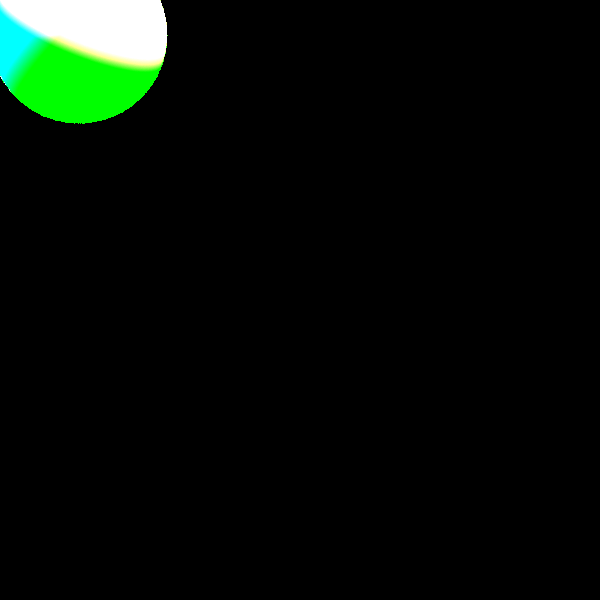
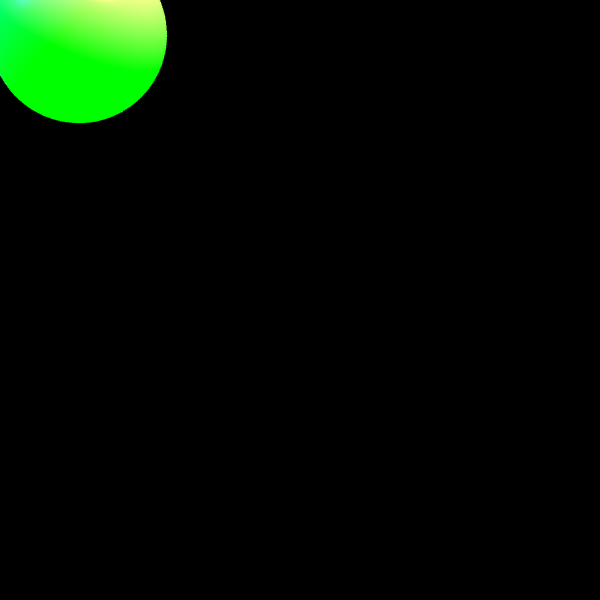
Stage 8: fixing jagged edges (2nd improvement)

Changed region(s): [[0.0, 0.0, 0.3, 0.15]]

diff --git a/unittests/renderer/ReflectionRefractionTests.java b/unittests/renderer/ReflectionRefractionTests.java
@@ -44,7 +44,6 @@ public class ReflectionRefractionTests {
         Camera camera = new Camera(new Point(0, 0, 1000), new Vector(0, 0, -1), new Vector(0, 1, 0)) //
                 .setVPSize(150, 150).setVPDistance(1000);
 
-
         camera.setImageWriter(new ImageWriter("refractionTwoSpheres", 500, 500)) //
                 .setRayTracer(new RayTracerBasic(scene2)) //
                 .renderImage() //
@@ -295,20 +294,131 @@ public class ReflectionRefractionTests {
      * our test
      */
     @Test
-    public void ourImageWithoutJaggedEdges() {
+    public void ourJaggedEdgesOn() {
+        Camera camera = new Camera(new Point(80, 0, 2), new Vector(-1, 0, 0), new Vector(0, 0, 1))
+                .setVPSize(200, 200).setVPDistance(1000);
+
+        camera.setJaggedEdgesButton(true, 9);
+
+
+        Geometries geometries = new Geometries(//close to camera bigger
+                new Sphere(new Point(40, 0, 2.5), 3)
+                        .setEmission(Color.GREEN)
+                        .setMaterial(new Material().setKd(0.5).setKs(0.5).setShininess(30)));
+        LinkedList<LightSource> lights = new LinkedList<>();
+
+//        lights.add(new Spotlight(new Color(700, 400, 400),
+//                new Point(40, 40, 115),
+//                new Vector(-1, -1, -4)));
+//        lights.add(new PointLight(Color.BLUE, new Point(100, -100, 100)));
+        lights.add(new DirectionalLight(Color.MAGENTA,new Vector(-1,-1,0)));
+
+        Scene scene2 = new Scene.SceneBuilder("Test scene").setGeometries(geometries)
+                .setLights(lights).build();
+
+        ImageWriter imageWriter = new ImageWriter("jagged edges on - 9", 600, 600);
+        camera.setImageWriter(imageWriter)
+                .setRayTracer(new RayTracerBasic(scene2))
+                .renderImage()
+                .writeToImage();
+    }
+    @Test
+    public void jaggedEdgesOff() {
+        Camera camera = new Camera(new Point(80, 0, 2), new Vector(-1, 0, 0), new Vector(0, 0, 1))
+                .setVPSize(200, 200).setVPDistance(1000);
+
+        camera.setJaggedEdgesButton(false, 9);
+
+
+        Geometries geometries = new Geometries(//close to camera bigger
+                new Sphere(new Point(40, 0, 2.5), 3)
+                        .setEmission(Color.GREEN)
+                        .setMaterial(new Material().setKd(0.5).setKs(0.5).setShininess(30)));
+        LinkedList<LightSource> lights = new LinkedList<>();
+
+//        lights.add(new Spotlight(new Color(700, 400, 400),
+//                new Point(40, 40, 115),
+//                new Vector(-1, -1, -4)));
+//        lights.add(new PointLight(Color.BLUE, new Point(100, -100, 100)));
+        lights.add(new DirectionalLight(Color.MAGENTA,new Vector(-1,-1,0)));
+
+        Scene scene2 = new Scene.SceneBuilder("Test scene").setGeometries(geometries)
+                .setLights(lights).build();
+
+        ImageWriter imageWriter = new ImageWriter("jagged edges off 9", 600, 600);
+        camera.setImageWriter(imageWriter)
+                .setRayTracer(new RayTracerBasic(scene2))
+                .renderImage()
+                .writeToImage();
+    }
+
+
+    /**
+     * our test
+     */
+    @Test
+    public void ourImageWithSmoothEdges() {
         Camera camera = new Camera(new Point(80, 0, 2), new Vector(-1, 0, 0), new Vector(0, 0, 1))
                 .setVPSize(200, 200).setVPDistance(1000);
 
         camera.setJaggedEdgesButton(true, 3);
 
+        camera.setJaggedEdgesButton(true);
+        Point p0 = new Point(0, -3, 5);
+        Point p1 = new Point(0, 3, 5);
+        Point p2 = new Point(0, 3, 0);
+        Point p3 = new Point(0, -3, 0);
+        Point p4 = new Point(9, 6, 5);
+        Point p5 = new Point(9, 6, 0);
+        Point p6 = new Point(9, -6, 0);
+        Point p7 = new Point(9, -6, 5);
 
-        Geometries geometries = new Geometries(//close to camera bigger
-                new Sphere(new Point(63, -1.25, 3.5), 0.5)
+        Point p8 = new Point(1, 0, 0);
+        Point p9 = new Point(2, 1, 0);
+        Point p10 = new Point(3, 0, 0);
+        Point p11 = new Point(2, -1, 0);
+        Point p12 = new Point(1, 0, 2);
+        Point p13 = new Point(2, 1, 2);
+        Point p14 = new Point(3, 0, 2);
+        Point p15 = new Point(2, -1, 2);
+
+        Point p16 = new Point(0,-10,0.5);
+        Point p17 = new Point(0,10,0.5);
+        Point p18 = new Point(100, -10, 0.5);
+        Point p19 = new Point(100, 10, 0.5);
+
+        Geometries geometries = new Geometries(
+                //window
+                new Quadrangle(p0, p1, p2, p3).setTransparency(new Double3(0.7)).setColor(Color.LIGHT_BLUE),
+                //mirrors
+                new Quadrangle(p1, p2, p5, p4).setReflectivity(new Double3(0.5)).setShininess(1000).setColor(Color.GOLD),
+                new Quadrangle(p7, p0, p3, p6).setReflectivity(new Double3(0.5)).setShininess(1000).setColor(Color.GOLD),
+                //sun
+                new Sphere(new Point(-100, 0, 2), 2d)
+                        .setEmission(Color.RED)
+                        .setMaterial(new Material().setKd(0.5).setKs(0.5).setShininess(30)),
+                //close to window
+                new Sphere(new Point(1, -0.75, 2), 0.5)
+                        .setEmission(Color.RED)
+                        .setMaterial(new Material().setKd(0.5).setKs(0.5).setShininess(30)),
+                //close to camera bigger
+                new Sphere(new Point(63, 0.75, 1.1), 0.5)
                         .setEmission(Color.GREEN)
                         .setMaterial(new Material().setKd(0.5).setKs(0.5).setShininess(30)),
-                new Sphere(new Point(63, -1.25, 3.5), 0.2)
+                new Sphere(new Point(63, 0.75, 1.7), 0.2)
                         .setEmission(Color.GREEN)
-                        .setMaterial(new Material().setKd(0.5).setKs(0.5).setShininess(30))
+                        .setMaterial(new Material().setKd(0.5).setKs(0.5).setShininess(30)),
+                //close to camera smaller
+                new Sphere(new Point(59, 0, 1.1), 0.4)
+                        .setEmission(Color.BLUE)
+                        .setMaterial(new Material().setKd(0.5).setKs(0.5).setShininess(30)),
+                new Sphere(new Point(59, 0, 1.6), 0.15)
+                        .setEmission(Color.BLUE)
+                        .setMaterial(new Material().setKd(0.5).setKs(0.5).setShininess(30)),
+                //floor
+               // new Quadrangle(p16, p17, p19, p18).setColor(Color.YELLOW),
+                new Triangle(p16,p17,p19).setEmission(Color.DARK_GRAY),
+                new Triangle(p19,p18,p16).setEmission(Color.YELLOW)
         );
         LinkedList<LightSource> lights = new LinkedList<>();
 
@@ -318,13 +428,95 @@ public class ReflectionRefractionTests {
         lights.add(new PointLight(Color.BLUE, new Point(100, -100, 100)));
         lights.add(new DirectionalLight(Color.MAGENTA,new Vector(-1,0,0)));
 
+
         Scene scene2 = new Scene.SceneBuilder("Test scene").setGeometries(geometries)
                 .setLights(lights).build();
 
-        ImageWriter imageWriter = new ImageWriter("our test jagged edges - 3", 600, 600);
+        ImageWriter imageWriter = new ImageWriter("our test shapes smooth edges", 600, 600);
+        camera.setImageWriter(imageWriter)
+                .setRayTracer(new RayTracerBasic(scene2))
+                .renderImage()
+                .writeToImage();
+    }
+
+    @Test
+    public void complexImageWithTenShapes() {
+        Camera camera = new Camera(new Point(55, 5, 20), new Vector(-7, -0.5, -2), new Vector(-1, 0, 1))
+                .setVPSize(300, 300).setVPDistance(1000);
+
+        camera.setJaggedEdgesButton(true, 3);
+
+
+        Point p0 = new Point(0, -3, 5);
+        Point p1 = new Point(0, 3, 5);
+        Point p2 = new Point(0, 3, 0);
+        Point p3 = new Point(0, -3, 0);
+        Point p4 = new Point(9, 6, 5);
+        Point p5 = new Point(9, 6, 0);
+        Point p6 = new Point(9, -6, 0);
+        Point p7 = new Point(9, -6, 5);
+
+        Point p8 = new Point(1, 0, 0);
+        Point p9 = new Point(2, 1, 0);
+        Point p10 = new Point(3, 0, 0);
+        Point p11 = new Point(2, -1, 0);
+        Point p12 = new Point(1, 0, 2);
+        Point p13 = new Point(2, 1, 2);
+        Point p14 = new Point(3, 0, 2);
+        Point p15 = new Point(2, -1, 2);
+
+        Point p16 = new Point(0,-10,0.5);
+        Point p17 = new Point(0,10,0.5);
+        Point p18 = new Point(100, -10, 0.5);
+        Point p19 = new Point(100, 10, 0.5);
+
+        Geometries geometries = new Geometries(
+                //window
+                new Quadrangle(p0, p1, p2, p3).setTransparency(new Double3(0.7)).setColor(Color.LIGHT_BLUE),
+                //mirrors
+                new Quadrangle(p1, p2, p5, p4).setReflectivity(new Double3(0.5)).setShininess(1000).setColor(Color.GOLD),
+                new Quadrangle(p7, p0, p3, p6).setReflectivity(new Double3(0.5)).setShininess(1000).setColor(Color.GOLD),
+
+                //close to camera smaller- body
+                new Sphere(new Point(2, 0, 3), 2)
+                        .setEmission(Color.BLUE)
+                        .setMaterial(new Material().setKd(0.5).setKs(0.5).setShininess(30).setKt(new Double3(0.7))),
+                new Sphere(new Point(2, 0, 3), 1)
+                        .setEmission(Color.BLUE)
+                        .setMaterial(new Material().setKd(0.2).setKs(0.1).setShininess(30)),
+
+                //floor
+                //new Quadrangle(p16, p17, p19, p18).setColor(Color.YELLOW)
+                new Triangle(p16,p17,p19).setEmission(Color.DARK_GRAY),
+                new Triangle(p19,p18,p16).setEmission(Color.DARK_GRAY)
+
+                //cube
+                // new Quadrangle(p8, p9, p10, p11),
+                //new Quadrangle(p12, p13, p14, p15),
+                //new Quadrangle(p13, p9, p10, p14),
+                //new Quadrangle(p14, p10, p11, p15),
+                //new Quadrangle(p15, p12, p8, p11),
+                //new Quadrangle(p12, p13, p9, p8)
+        );
+        LinkedList<LightSource> lights = new LinkedList<>();
+
+        lights.add(new Spotlight(Color.MAGENTA,
+                new Point(40, 40, 200),
+                new Vector(-1, -1, -4)).setKl(2E-5).setKq(2E-5));
+        lights.add(new PointLight(Color.YELLOW, new Point(100, -100, 100)));
+        //????????????move it or change color
+        lights.add(new DirectionalLight(Color.GOLD,new Vector(-2, -2, -5)));
+
+        Scene scene2 = new Scene.SceneBuilder("Test scene").setGeometries(geometries)
+                .setLights(lights)
+                .setAmbientLight(new AmbientLight(Color.BROWN, new Double3(0.15)))
+                .setBackground(Color.BLACK).build();
+
+        ImageWriter imageWriter = new ImageWriter("our test shapes chaya", 600, 600);
         camera.setImageWriter(imageWriter)
                 .setRayTracer(new RayTracerBasic(scene2))
                 .renderImage()
                 .writeToImage();
     }
 }
+

diff --git a/src/renderer/Camera.java b/src/renderer/Camera.java
@@ -275,7 +275,7 @@ public class Camera {
             //for each mini pixel
             for (int row = 1; row <= NUMBER_OF_MINIPIXELS; row++) {
                 //lowers the point for each row of minipixels
-                Point startPoint = outerTopLeftCorner.add(_Vup.scale(-1 * row * heightOfMiniPixel));
+                Point startPoint =  outerTopLeftCorner.add(_Vup.scale( -1*row * heightOfMiniPixel));
                 for (int column = 1; column <= NUMBER_OF_MINIPIXELS; column++) {
                     //moved the point to the right for each minipixel
 
@@ -285,8 +285,9 @@ public class Camera {
                     //creating ray from camera through random point in minipixel
 
                     Point movedPoint = movePointRandom(currentPoint, _Vup, _Vright, max(widthOfMiniPixel, heightOfMiniPixel));
-                    Vector rayDirectionFromMiniPixel = _centerCam.subtract(movedPoint);
-                    Ray jaggedEdgesRay = new Ray(movedPoint, rayDirectionFromMiniPixel);
+                    //Point movedPoint=currentPoint;
+                    Vector rayDirectionFromMiniPixel =_centerCam.subtract(movedPoint).normalize();
+                    Ray jaggedEdgesRay = new Ray(_centerCam, rayDirectionFromMiniPixel.scale(-1));
 
                     //tracing ray for color
                     Color thisPointColor = _rayTracerBase.traceRay(jaggedEdgesRay);
@@ -295,14 +296,15 @@ public class Camera {
                     colorX += thisPointColor.getColor().getRed();
                     colorY += thisPointColor.getColor().getGreen();
                     colorZ += thisPointColor.getColor().getBlue();
+                    //out.print(_centerCam.subtract(movedPoint).normalize());
                 }
             }
 
             //calculating the average - dividing by the number of mini pixels squared because of the double loop
-            double averageX = colorX / NUMBER_OF_MINIPIXELS * NUMBER_OF_MINIPIXELS;
 
-            double averageY = colorY / NUMBER_OF_MINIPIXELS * NUMBER_OF_MINIPIXELS;
-            double averageZ = colorZ / NUMBER_OF_MINIPIXELS * NUMBER_OF_MINIPIXELS;
+            double averageX = colorX / (NUMBER_OF_MINIPIXELS * NUMBER_OF_MINIPIXELS);
+            double averageY = colorY / (NUMBER_OF_MINIPIXELS * NUMBER_OF_MINIPIXELS);
+            double averageZ = colorZ / (NUMBER_OF_MINIPIXELS * NUMBER_OF_MINIPIXELS);
 
             Color thisPixelColor = new Color(averageX, averageY, averageZ);
             return thisPixelColor;

diff --git a/src/renderer/RayTracerBasic.java b/src/renderer/RayTracerBasic.java
@@ -9,7 +9,6 @@ import scene.Scene;
 import java.util.LinkedList;
 import java.util.List;
 
-import static java.lang.System.out;
 import static primitives.Util.alignZero;
 
 
@@ -84,7 +83,7 @@ public class RayTracerBasic extends RayTracerBase {
      * @param ray ray from the camera
      * @return the color of the point
      */
-    private Color calcLocalEffectsSimple(GeoPoint intersection, Ray ray, double k) {
+    private Color calcLocalEffects(GeoPoint intersection, Ray ray, double k) {
         Color color = intersection._geoPointGeometry.getEmission();//.scale(1 - intersection._geoPointGeometry.getMaterial().kT.getD1());
         Vector v = ray.getDir();
         Vector n = intersection._geoPointGeometry.getNormal(intersection._geoPoint);
@@ -174,7 +173,7 @@ public class RayTracerBasic extends RayTracerBase {
      */
     public Color calcColor(GeoPoint closestPoint, Ray ray, int level, double k) {
         // calcLocalEffects includes the color of the object
-        Color color = calcLocalEffectsSimple(closestPoint, ray, k);
+        Color color = calcLocalEffects(closestPoint, ray, k);
         //adding the local effects according to the phong model, including emissions
         if (level == 1)
             return color;
